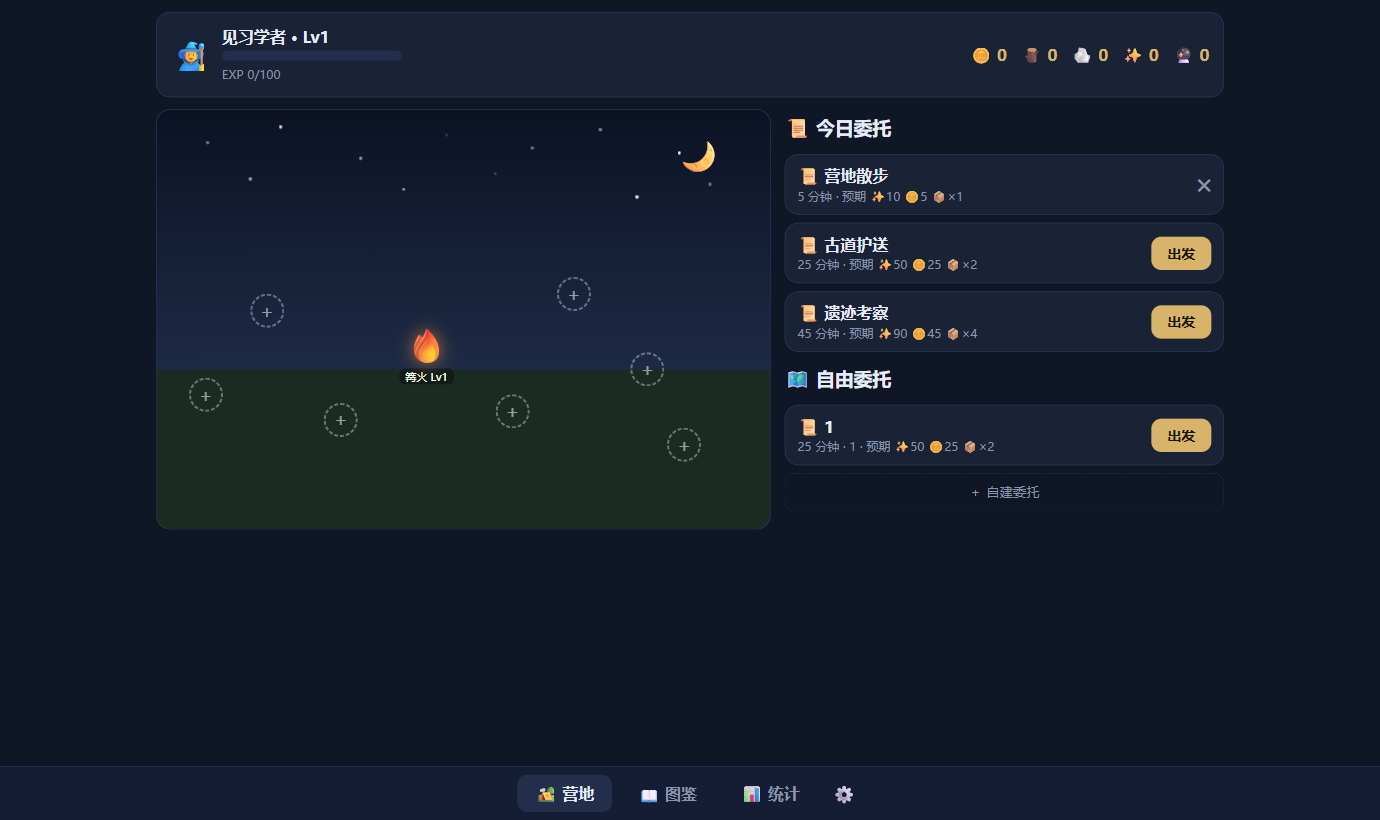
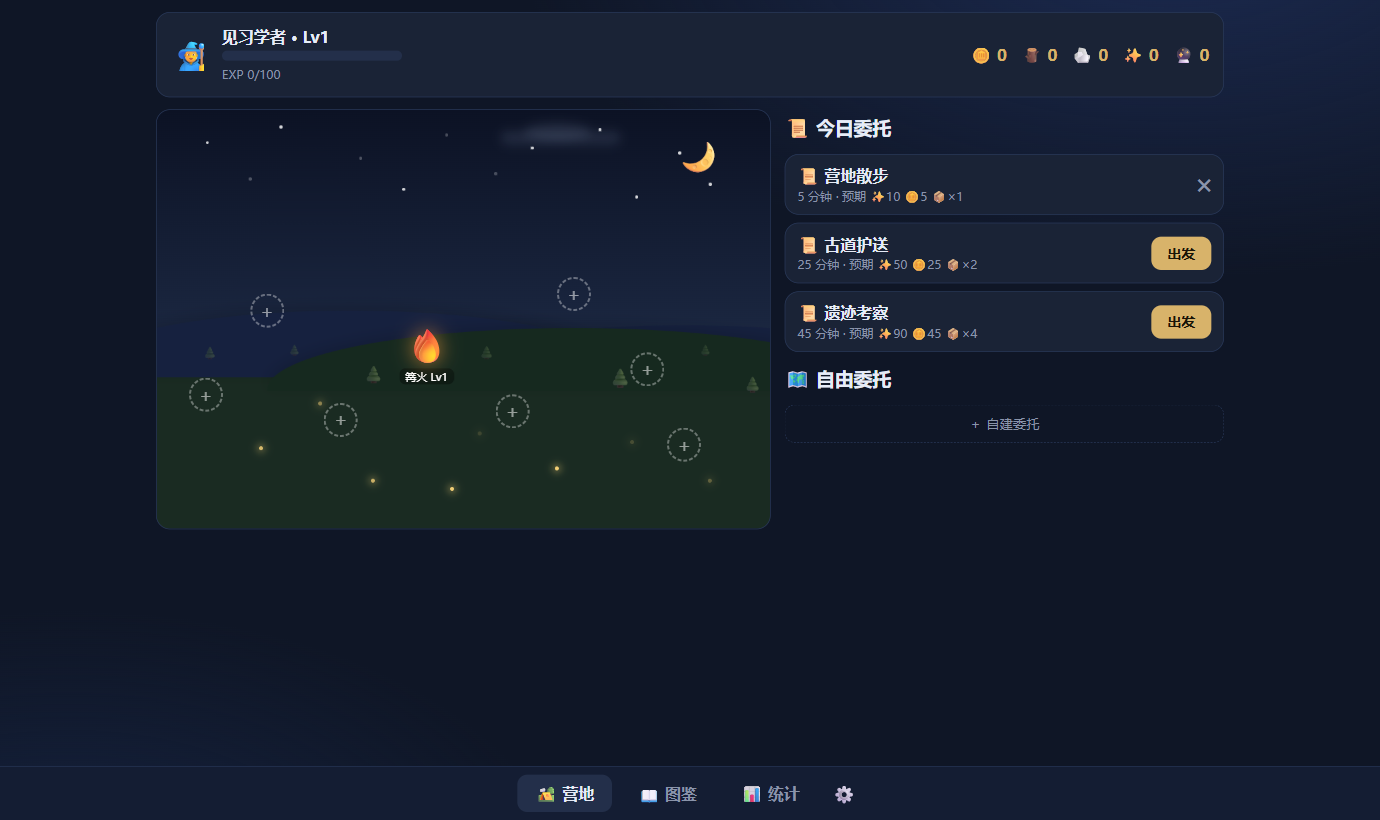
feat: 场景纸艺分层+视差+萤火虫+云朵远树,撤退弹窗重设计(伙伴挽留式)

diff --git a/client/src/components/CampScene.jsx b/client/src/components/CampScene.jsx
@@ -1,4 +1,4 @@
-import { useState } from 'react';
+import { useRef, useState } from 'react';
 import { useGame } from '../state/GameStateContext.jsx';
 import BuildMenu from './BuildMenu.jsx';
 
@@ -15,6 +15,18 @@ const SLOT_POS = [
 
 const STARS = [[8, 12], [20, 6], [33, 18], [47, 9], [61, 14], [72, 7], [85, 16], [15, 26], [55, 24], [90, 28], [40, 30], [78, 33]];
 
+// 远树剪影:[left%, bottom%, 字号px, 不透明度]
+const TREES = [
+  [7, 40, 15, 0.45], [21, 41, 13, 0.4], [52, 40, 16, 0.45], [88, 41, 13, 0.4],
+  [33, 34, 21, 0.75], [73, 33, 23, 0.8], [95, 32, 19, 0.7],
+];
+
+// 萤火虫:[left%, bottom%, 飞行时长s, 闪烁延迟s]
+const FIREFLIES = [
+  [16, 18, 7, 0], [34, 10, 9, 0.7], [52, 22, 8, 1.3], [63, 12, 10, 0.4],
+  [77, 20, 7.5, 1.8], [88, 9, 9.5, 1.1], [25, 28, 8.5, 2.1], [45, 6, 11, 0.2],
+];
+
 // 由 id 派生稳定的伪随机站位与游走节奏,刷新不跳变
 function creatureStyle(id, i) {
   const h = (id * 2654435761) >>> 0;
@@ -29,17 +41,42 @@ function creatureStyle(id, i) {
 export default function CampScene() {
   const { state } = useGame();
   const [slot, setSlot] = useState(null);
+  const sceneRef = useRef(null);
   const bySlot = Object.fromEntries(state.buildings.map(b => [b.slotIndex, b]));
   const catalog = Object.fromEntries(state.buildingCatalog.map(b => [b.key, b]));
 
+  // 鼠标视差:不触发 React 重渲染,直接写 CSS 变量
+  function onMove(e) {
+    const el = sceneRef.current;
+    if (!el) return;
+    const r = el.getBoundingClientRect();
+    el.style.setProperty('--px', String((e.clientX - r.left) / r.width - 0.5));
+    el.style.setProperty('--py', String((e.clientY - r.top) / r.height - 0.5));
+  }
+  function onLeave() {
+    const el = sceneRef.current;
+    if (!el) return;
+    el.style.setProperty('--px', '0');
+    el.style.setProperty('--py', '0');
+  }
+
   return (
-    <section className="scene">
-      <div className="scene-sky">
+    <section className="scene" ref={sceneRef} onMouseMove={onMove} onMouseLeave={onLeave}>
+      <div className="scene-sky plx-1">
         {STARS.map(([x, y], i) => (
           <span key={i} className="star" style={{ left: `${x}%`, top: `${y}%`, animationDelay: `${(i % 5) * 0.6}s` }} />
         ))}
+        <span className="cloud cloud-a" />
+        <span className="cloud cloud-b" />
         <span className="scene-sign"><span className="only-night">🌙</span><span className="only-day">☀️</span></span>
         <span className="shooting-star" />
+      </div>
+      <div className="hill hill-far plx-2" />
+      <div className="hill hill-mid plx-3" />
+      <div className="scene-trees plx-3">
+        {TREES.map(([x, b, size, op], i) => (
+          <span key={i} className="tree" style={{ left: `${x}%`, bottom: `${b}%`, fontSize: size, opacity: op }}>🌲</span>
+        ))}
       </div>
       {SLOT_POS.map((pos, i) => {
         const b = bySlot[i];
@@ -61,6 +98,11 @@ export default function CampScene() {
       <div className="scene-creatures">
         {state.creatures.map((c, i) => (
           <span key={c.id} className="creature" style={creatureStyle(c.id, i)} title={c.name}>{c.emoji}</span>
+        ))}
+      </div>
+      <div className="scene-fireflies plx-4">
+        {FIREFLIES.map(([x, b, dur, delay], i) => (
+          <span key={i} className="firefly" style={{ left: `${x}%`, bottom: `${b}%`, animationDuration: `${dur}s, 2.4s`, animationDelay: `${delay}s, ${delay}s` }} />
         ))}
       </div>
       {slot !== null && <BuildMenu slotIndex={slot} building={bySlot[slot] ?? null} onClose={() => setSlot(null)} />}

diff --git a/client/src/theme/theme.css b/client/src/theme/theme.css
@@ -5,6 +5,7 @@
   --gold: #d8b36a; --gold-ink: #1a1408; --purple: #8d7bb8;
   --danger: #c46a6a; --glow: 0 0 18px rgba(216, 179, 106, .25);
   --sky-top: #0c1224; --sky-bottom: #1d2a45; --ground: #1a2b22;
+  --hill-far: #16213f; --hill-mid: #16291f;
 }
 :root[data-theme='day'] {
   --bg: #f4ead8; --bg-soft: #f9f2e4; --card: #fffaf0; --card-2: #efe4cc;
@@ -12,6 +13,7 @@
   --gold: #c89b4a; --gold-ink: #fffaf0; --purple: #9a86c8;
   --danger: #c46a6a; --glow: 0 0 14px rgba(200, 155, 74, .25);
   --sky-top: #bfdcec; --sky-bottom: #efe0bc; --ground: #b9d3a0;
+  --hill-far: #aac9de; --hill-mid: #a3c490;
 }
 
 * { box-sizing: border-box; }
@@ -202,3 +204,49 @@ small, .dim { color: var(--text-dim); font-size: 12px; }
 .speech::after { content: ''; position: absolute; bottom: -6px; left: 50%; width: 10px; height: 10px;
   background: var(--card); border-right: 1px solid var(--border); border-bottom: 1px solid var(--border);
   transform: translateX(-50%) rotate(45deg); }
+
+/* —— 纸艺分层场景:山丘 / 远树 / 云 / 萤火虫 / 鼠标视差 —— */
+.plx-1, .plx-2, .plx-3, .plx-4 { transition: transform .25s ease-out; will-change: transform; }
+.plx-1 { transform: translate(calc(var(--px, 0) * -6px), calc(var(--py, 0) * -3px)); }
+.plx-2 { transform: translate(calc(var(--px, 0) * -12px), calc(var(--py, 0) * -5px)); }
+.plx-3 { transform: translate(calc(var(--px, 0) * -20px), calc(var(--py, 0) * -8px)); }
+.plx-4 { transform: translate(calc(var(--px, 0) * -30px), calc(var(--py, 0) * -12px)); }
+
+.hill { position: absolute; border-radius: 50% 50% 0 0 / 100% 100% 0 0; pointer-events: none;
+  box-shadow: 0 -4px 14px rgba(0, 0, 0, .15); }
+.hill::after { content: ''; position: absolute; left: 62%; right: -55%; top: 22%; bottom: 0;
+  background: inherit; border-radius: 50% 50% 0 0 / 100% 100% 0 0; }
+.hill-far { left: -15%; right: 22%; height: 16%; bottom: 36%; background: var(--hill-far); }
+.hill-mid { left: 18%; right: -18%; height: 15%; bottom: 33%; background: var(--hill-mid); }
+
+.scene-trees { position: absolute; inset: 0; pointer-events: none; }
+.tree { position: absolute; }
+[data-theme='night'] .tree { filter: brightness(.55) saturate(.6); }
+
+.cloud { position: absolute; height: 14px; border-radius: 20px; background: rgba(200, 215, 255, .10);
+  filter: blur(5px); animation: drift linear infinite; pointer-events: none; }
+.cloud::after { content: ''; position: absolute; left: 20%; top: -60%; width: 55%; height: 130%;
+  border-radius: 50%; background: inherit; }
+.cloud-a { width: 120px; top: 8%; animation-duration: 80s; animation-delay: -20s; }
+.cloud-b { width: 80px; top: 20%; animation-duration: 120s; animation-delay: -70s; }
+[data-theme='day'] .cloud { background: rgba(255, 255, 255, .85); filter: blur(2px); }
+@keyframes drift { from { transform: translateX(-150px); } to { transform: translateX(950px); } }
+
+.scene-fireflies { position: absolute; inset: 0; pointer-events: none; }
+.firefly { position: absolute; width: 4px; height: 4px; border-radius: 50%; background: #ffd87a;
+  box-shadow: 0 0 8px 2px rgba(255, 216, 122, .55); pointer-events: none;
+  animation-name: fly, blink; animation-timing-function: ease-in-out, ease-in-out;
+  animation-iteration-count: infinite, infinite; animation-direction: alternate, normal; }
+[data-theme='day'] .firefly { display: none; }
+@keyframes fly { from { transform: translate(0, 0); } to { transform: translate(28px, -20px); } }
+@keyframes blink { 0%, 100% { opacity: .1; } 50% { opacity: .95; } }
+
+.adv-hill-far { left: -20%; right: -10%; height: 18%; bottom: -5%; opacity: .85; background: var(--hill-far); }
+.adv-hill-mid { left: 12%; right: -28%; height: 14%; bottom: -6%; opacity: .9; background: var(--hill-mid); }
+
+/* —— 撤退确认弹窗 —— */
+.retreat-modal { align-items: center; text-align: center; }
+.retreat-buddy { font-size: 46px; animation: floaty 3.2s ease-in-out infinite; }
+.retreat-warns { margin: 2px 0 0; padding-left: 18px; text-align: left; line-height: 2; font-size: 13px; }
+.btn-danger { color: var(--danger); border-color: var(--danger); }
+.btn-danger:hover { background: rgba(196, 106, 106, .12); }

diff --git a/client/src/pages/Adventure.jsx b/client/src/pages/Adventure.jsx
@@ -15,6 +15,7 @@ export default function Adventure() {
   const [finishedQuest, setFinishedQuest] = useState(null);
   const [error, setError] = useState(null);
   const [busy, setBusy] = useState(false);
+  const [showRetreat, setShowRetreat] = useState(false);
 
   const session = state?.runningSession;
 
@@ -38,7 +39,7 @@ export default function Adventure() {
   }
 
   async function abandon() {
-    if (!window.confirm('确定撤退吗?本次冒险无掉落,慌乱中还可能弄丢材料。')) return;
+    setShowRetreat(false);
     try {
       const r = await api(`/sessions/${session.id}/abandon`, { method: 'POST' });
       if (r.lost) toast.show(`🏃 仓促撤退,路上掉了 ${r.lost.emoji}${r.lost.name} ×${r.lost.qty}`);
@@ -58,7 +59,29 @@ export default function Adventure() {
   if (!state) return <div className="splash">🔥 正在点亮篝火…</div>;
   if (!session) return null;
   const buddy = state.creatures.at(-1)?.emoji ?? '🔥';
-  return <Running session={session} buddy={buddy} onComplete={complete} onAbandon={abandon} error={error} busy={busy} />;
+  return (
+    <>
+      <Running session={session} buddy={buddy} onComplete={complete} onAbandon={() => setShowRetreat(true)} error={error} busy={busy} />
+      {showRetreat && (
+        <div className="modal-mask" onClick={() => setShowRetreat(false)}>
+          <div className="modal card retreat-modal" onClick={e => e.stopPropagation()}>
+            <div className="retreat-buddy">{buddy}</div>
+            <div className="speech">真的要走吗?战利品会留在森林里的…</div>
+            <h3>🏳️ 中途撤退</h3>
+            <ul className="retreat-warns dim">
+              <li>本次专注的所有掉落将泡汤</li>
+              <li>慌乱中可能弄丢 1~2 个材料</li>
+              <li>委托不会锁定,随时可以再出发</li>
+            </ul>
+            <div className="modal-actions">
+              <button className="btn-ghost btn-danger" onClick={abandon}>确认撤退</button>
+              <button className="btn" onClick={() => setShowRetreat(false)}>🔥 再坚持一下</button>
+            </div>
+          </div>
+        </div>
+      )}
+    </>
+  );
 }
 
 const ADV_STARS = [[6, 8], [14, 22], [24, 12], [34, 28], [44, 7], [55, 18], [64, 30], [72, 10], [81, 24], [90, 14], [12, 40], [88, 38], [50, 36], [70, 44]];
@@ -91,6 +114,11 @@ function Running({ session, buddy, onComplete, onAbandon, error, busy }) {
         ))}
         <span className="shooting-star" />
         <span className="shooting-star delay" />
+        <span className="firefly" style={{ left: '12%', bottom: '14%', animationDuration: '8s, 2.4s' }} />
+        <span className="firefly" style={{ left: '82%', bottom: '10%', animationDuration: '10s, 2.4s', animationDelay: '1.2s, 1.2s' }} />
+        <span className="firefly" style={{ left: '64%', bottom: '20%', animationDuration: '9s, 2.4s', animationDelay: '0.6s, 0.6s' }} />
+        <div className="hill hill-far adv-hill-far" />
+        <div className="hill hill-mid adv-hill-mid" />
       </div>
       <p className="dim">— 委托:{session.questTitle}{session.subjectTag ? ` · ${session.subjectTag}` : ''} —</p>
       <div className="timer-aura">